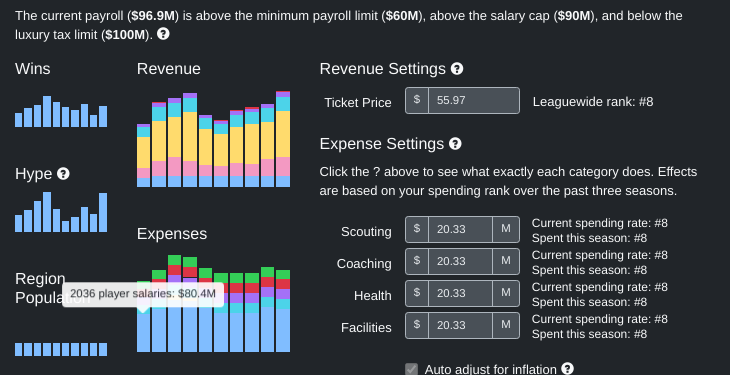
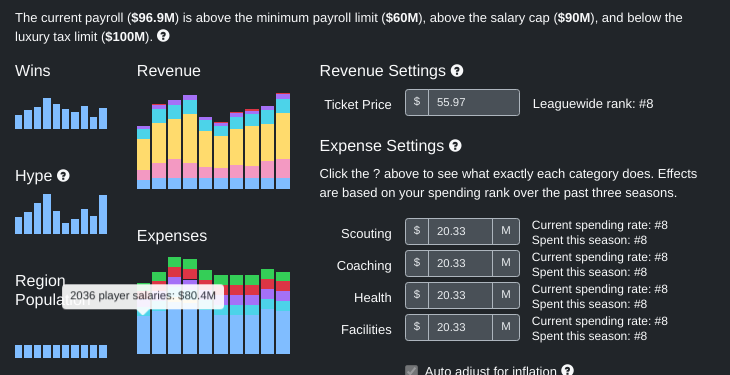
Fix overlap

diff --git a/zengm.com/tools/crop-screenshots.js b/zengm.com/tools/crop-screenshots.js
@@ -24,7 +24,7 @@ const TOP_BELOW_MORE = 372;
 		5: 400,
 		6: 405,
 		7: 344,
-		8: TOP_BELOW_MORE,
+		8: TOP_BELOW_MORE - 2,
 		9: TOP_BELOW_MORE,
 		10: 387,
 		11: 459,
